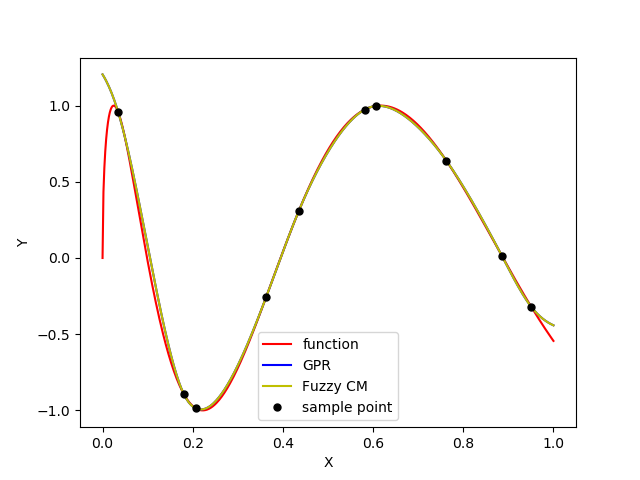
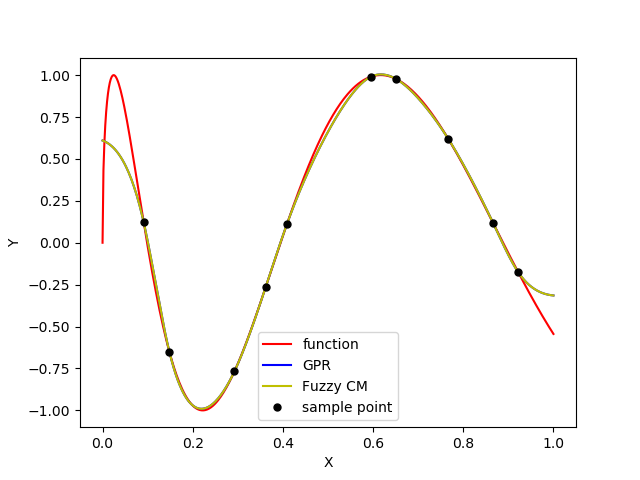
#2 add high dimension GPR

diff --git a/model.py b/model.py
@@ -15,14 +15,15 @@ class modelInterface(ABC):
 class GPR(modelInterface):
 
     def __init__(self, sampleX: list, sampleY: list):
-        kernel = GPy.kern.RBF(1)+GPy.kern.Matern32(1)
-        self.model = GPy.models.GPRegression(sampleX[:, None], sampleY[:, None], kernel=kernel)
+        DIM = sampleX[0].size
+        kernel = GPy.kern.RBF(DIM)+GPy.kern.Matern32(DIM)
+        self.model = GPy.models.GPRegression(sampleX, sampleY[:, None], kernel=kernel)
         self.model.optimize()
 
     def getPredictValue(self, x: list):
         return [val[0] for val in
                 self.model.predict_quantiles(
-                    x[:, None],
+                    x,
                     quantiles=(2.5, 50, 97.5)
                 )[1]]
 
@@ -30,29 +31,34 @@ class GPR(modelInterface):
 class FuzzyCM(modelInterface):
 
     def __init__(self, sampleX: list, sampleY: list):
-        kernel = GPy.kern.RBF(1)+GPy.kern.Matern32(1)
-        self.model = GPy.models.GPRegression(sampleX[:, None], sampleY[:, None], kernel=kernel)
+        DIM = sampleX[0].size
+        kernel = GPy.kern.RBF(DIM)+GPy.kern.Matern32(DIM)
+        self.model = GPy.models.GPRegression(sampleX, sampleY[:, None], kernel=kernel)
         self.model.optimize()
-        cntr, u, u0, d, jm, p, fpc = cmeans(np.array([sampleX]), 1, 3.0,  0.01, 1000)
-        print("center:",cntr)
+        cntr, u, u0, d, jm, p, fpc = cmeans(sampleX.T, 1, 3.0,  0.01, 1000)
+        print("center:", cntr)
 
     def getPredictValue(self, x: list):
         return [val[0] for val in
                 self.model.predict_quantiles(
-                    x[:, None],
+                    x,
                     quantiles=(2.5, 50, 97.5)
                 )[1]]
 
 
 if __name__ == "__main__":
+    # debug parameter
+    DIM = 5
+    SIZE = 10
+
     # test function
     def f(x: float):
-        return np.sin(np.sqrt(x)*10.0)
+        sum = np.sum(x)
+        return np.sin(np.sqrt(sum)*10.0)
 
     print("-- create model-- ")
     # create sample point
-    SIZE = 10
-    X = np.array([s[0] for s in lhs(1, SIZE)])
+    X = np.array([[s[i] for i in range(DIM)] for s in lhs(DIM, SIZE)])
     Y = np.array([f(i) for i in X])
     print(X)
 
@@ -60,22 +66,23 @@ if __name__ == "__main__":
     MODEL = GPR(X, Y)
     MODEL_FUZZY = FuzzyCM(X, Y)
 
-    # create sample point for debug
-    ALL_X = np.linspace(0.0, 1.0, 500)
-    ALL_Y_TRUE = f(ALL_X)
-    ALL_Y_GPR = MODEL.getPredictValue(ALL_X)
-    ALL_Y_FUZZY = MODEL_FUZZY.getPredictValue(ALL_X)
+    if DIM == 1:
+        # create sample point for debug
+        ALL_X = np.linspace(0.0, 1.0, 500)[:, None]
+        ALL_Y_TRUE = [f(x) for x in ALL_X]
+        ALL_Y_GPR = MODEL.getPredictValue(ALL_X)
+        ALL_Y_FUZZY = MODEL_FUZZY.getPredictValue(ALL_X)
 
-    print("-- create figure-- ")
-    # create model figure
-    plt.plot(ALL_X, ALL_Y_TRUE, c="r", label='function')
-    plt.plot(ALL_X, ALL_Y_GPR, c="b", label='GPR')
-    plt.plot(ALL_X, ALL_Y_FUZZY, c="y", label='Fuzzy CM')
-    plt.plot(X, Y, 'o', marker=".", markersize=10, c="black", label="sample point")
-    plt.legend()
+        print("-- create figure-- ")
+        # create model figure
+        plt.plot(ALL_X, ALL_Y_TRUE, c="r", label='function')
+        plt.plot(ALL_X, ALL_Y_GPR, c="b", label='GPR')
+        plt.plot(ALL_X, ALL_Y_FUZZY, c="y", label='Fuzzy CM')
+        plt.plot(X, Y, 'o', marker=".", markersize=10, c="black", label="sample point")
+        plt.legend()
 
-    plt.xlabel("X")
-    plt.ylabel("Y")
+        plt.xlabel("X")
+        plt.ylabel("Y")
 
-    plt.savefig("./fig.png")
+        plt.savefig("./fig.png")
     print("--- finish ---")
